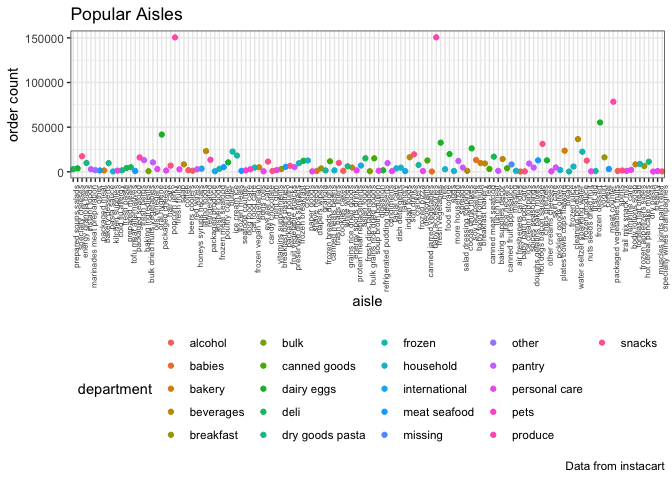
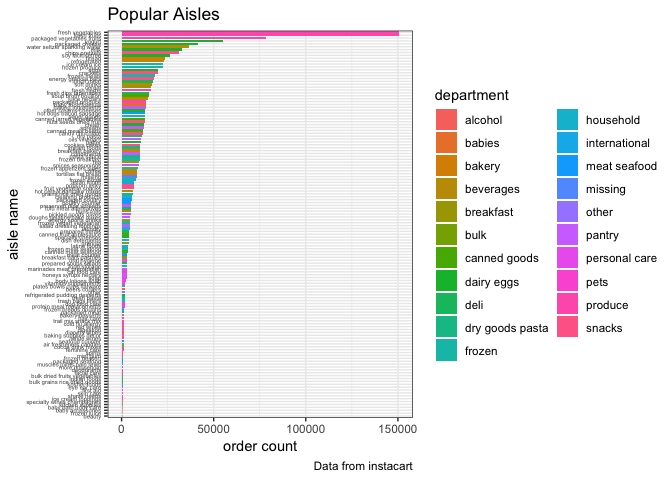
problem 2 drafted

Changed region(s): [[0.0, 0.0, 1.0, 1.0], [0.8438, 0.9375, 1.0, 1.0], [0.4375, 0.1875, 0.4688, 0.2188]]

diff --git a/p8105_hw3_lec2197.md b/p8105_hw3_lec2197.md
@@ -5,14 +5,14 @@ Homework 3
 library(tidyverse)
 ```
 
-    ## ── Attaching packages ─────────────────────────────────────────────────────────────────────────────── tidyverse 1.2.1 ──
+    ## ── Attaching packages ────────────────────────────────────────── tidyverse 1.2.1 ──
 
     ## ✔ ggplot2 3.0.0     ✔ purrr   0.2.5
     ## ✔ tibble  1.4.2     ✔ dplyr   0.7.6
     ## ✔ tidyr   0.8.1     ✔ stringr 1.3.1
     ## ✔ readr   1.1.1     ✔ forcats 0.3.0
 
-    ## ── Conflicts ────────────────────────────────────────────────────────────────────────────────── tidyverse_conflicts() ──
+    ## ── Conflicts ───────────────────────────────────────────── tidyverse_conflicts() ──
     ## ✖ dplyr::filter() masks stats::filter()
     ## ✖ dplyr::lag()    masks stats::lag()
 
@@ -142,6 +142,24 @@ brfss_smart2010 %>%
 
 ![](p8105_hw3_lec2197_files/figure-markdown_github/unnamed-chunk-1-1.png)
 
+``` r
+ggsave("brfss_plot.jpg", scale = 2)
+```
+
+    ## Saving 14 x 10 in image
+
+    ## Warning: Removed 21 rows containing missing values (geom_point).
+
+    ## Warning: Removed 1 rows containing missing values (geom_path).
+
+That's a small version, so I'm printing a more-readable one below (from the saved plot):
+
+``` r
+knitr::include_graphics("./brfss_plot.jpg")
+```
+
+<img src="./brfss_plot.jpg" width="100%" />
+
 Problem 2
 ---------
 
@@ -172,22 +190,87 @@ instacart %>%
   group_by(department, aisle, aisle_id) %>% 
   tally() %>% 
   ungroup() %>% 
-  mutate(aisle = factor(aisle, levels = aisle[order(aisle_id)])) %>% 
-  ggplot(aes(x = aisle, y = n, color = department)) +
-  geom_point() + 
+  mutate(aisle = factor(aisle, levels = aisle[order(n)])) %>% 
+  ggplot(aes(x = aisle, y = n, fill = department)) +
+  geom_col() + 
+  coord_flip() +
   theme_bw() + 
-  theme(axis.text.x = element_text(angle = 90, hjust = 1, size = rel(0.7))) +
+  theme(axis.text.y = element_text(size = rel(0.5))) +
   labs(
     title = "Popular Aisles",
-    x = "aisle",
+    x = "aisle name",
     y = "order count",
     caption = "Data from instacart"
   ) + 
-  theme(legend.position = "bottom")
+  viridis::scale_color_viridis(
+    name = "Department", 
+    discrete = TRUE
+    ) 
 ```
 
 ![](p8105_hw3_lec2197_files/figure-markdown_github/plot%20number%20items%20ordered%20in%20each%20aisle-1.png)
 
+``` r
+ggsave("instacart_plot.jpg", scale = 2)
+```
+
+    ## Saving 14 x 10 in image
+
+That's a small version, so I'm printing a more-readable one below (from the saved plot):
+
+``` r
+knitr::include_graphics("./instacart_plot.jpg")
+```
+
+<img src="./instacart_plot.jpg" width="100%" />
+
 *Make a table showing the most popular item in each of the aisles “baking ingredients”, “dog food care”, and “packaged vegetables fruits”.*
 
+``` r
+baking <- instacart %>% 
+  filter(aisle == "baking ingredients") %>% 
+  summarize(most_popular = names(which.max(table(product_name))))
+
+dog_food <- instacart %>% 
+  filter(aisle == "dog food care") %>% 
+  summarize(most_popular = names(which.max(table(product_name))))
+
+veg_fruit <- instacart %>% 
+  filter(aisle == "packaged vegetables fruits") %>% 
+  summarize(most_popular = names(which.max(table(product_name))))
+
+knitr::kable(rbind(baking, dog_food, veg_fruit) %>% 
+  mutate(aisle = c("baking ingredients", "dog food care", "packaged vegetables fruits"))
+)
+```
+
+| most\_popular                                 | aisle                      |
+|:----------------------------------------------|:---------------------------|
+| Light Brown Sugar                             | baking ingredients         |
+| Snack Sticks Chicken & Rice Recipe Dog Treats | dog food care              |
+| Organic Baby Spinach                          | packaged vegetables fruits |
+
 *Make a table showing the mean hour of the day at which Pink Lady Apples and Coffee Ice Cream are ordered on each day of the week; format this table for human readers (i.e. produce a 2 x 7 table).*
+
+``` r
+instacart %>% 
+    filter(product_name == "Pink Lady Apples" | product_name == "Coffee Ice Cream") %>%
+    group_by(order_dow, product_name) %>% 
+    summarize(mean_hour = mean(order_hour_of_day)) %>% 
+    ungroup() %>% 
+    arrange(product_name) %>% 
+    spread(key = product_name, value = mean_hour) %>% 
+    mutate(order_dow = replace(order_dow, 1:7, c("sunday", "monday", "tuesday", "wednesday", "thursday", "friday", "saturday"))) %>% 
+    rename('Order Day of Week' = order_dow) %>% 
+  knitr::kable(caption = "Mean Hour of Day Order Placed (x/24h)")
+```
+
+| Order Day of Week |  Coffee Ice Cream|  Pink Lady Apples|
+|:------------------|-----------------:|-----------------:|
+| sunday            |          13.77419|          13.44118|
+| monday            |          14.31579|          11.36000|
+| tuesday           |          15.38095|          11.70213|
+| wednesday         |          15.31818|          14.25000|
+| thursday          |          15.21739|          11.55172|
+| friday            |          12.26316|          12.78431|
+| saturday          |          13.83333|          11.93750|
